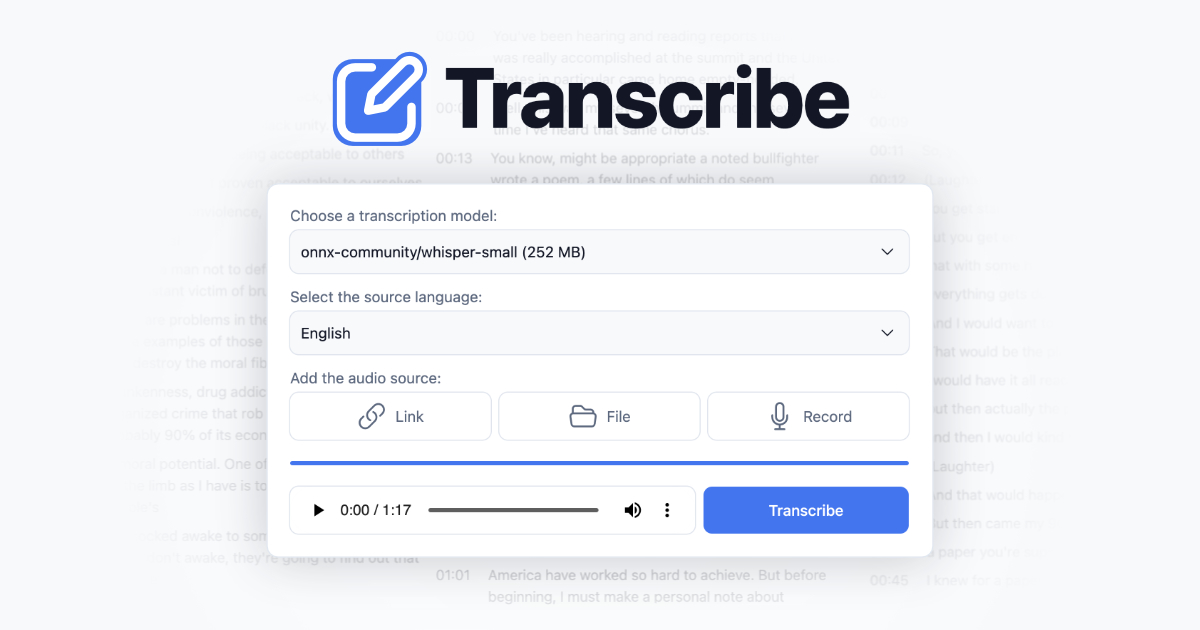
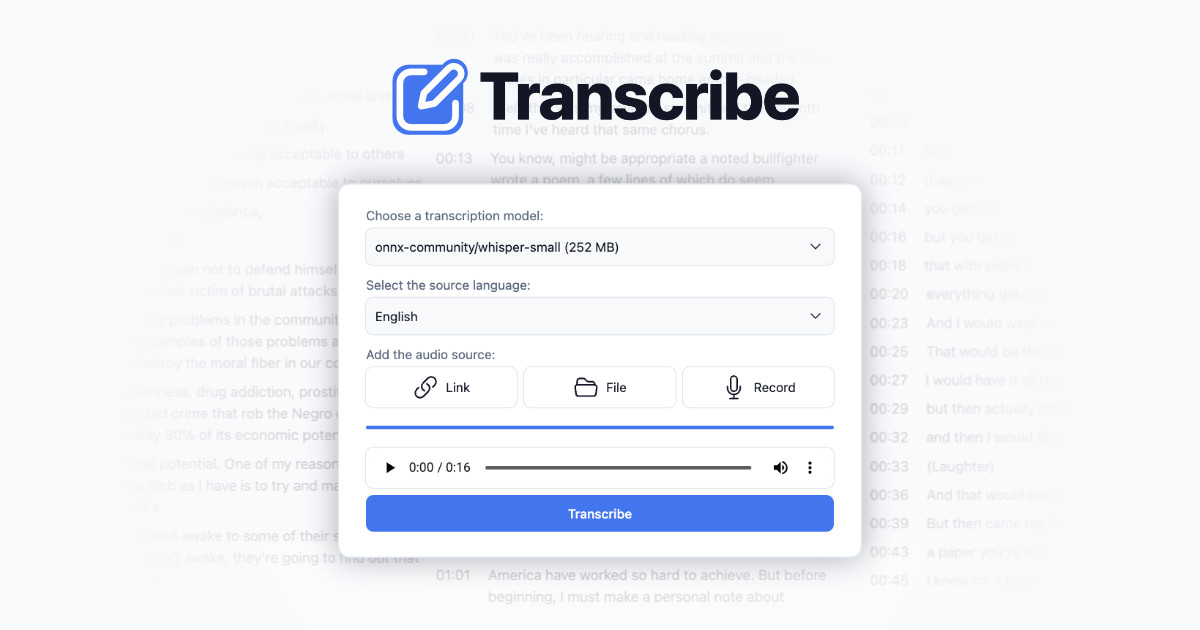
Minor style and color changes

Changed region(s): [[0.2158, 0.3016, 0.7708, 0.8746], [0.2775, 0.0905, 0.7092, 0.2413]]

diff --git a/src/components/TranscribeButton.tsx b/src/components/TranscribeButton.tsx
@@ -14,7 +14,7 @@ export function TranscribeButton(props: Props): JSX.Element {
                 }
             }}
             disabled={isTranscribing}
-            className='text-white text-center bg-blue-500 hover:bg-blue-600 transition-colors duration-300 focus:outline-none focus:ring-2 focus:ring-blue-700 dark:focus:ring-slate-400 font-medium rounded-lg text-sm px-5 py-2.5 text-center whitespace-nowrap sm:basis-48'
+            className='text-white text-center bg-blue-500 hover:bg-blue-600 transition-colors duration-300 focus:outline-none focus:ring-2 focus:ring-blue-700 dark:focus:ring-slate-400 font-medium rounded-lg text-sm p2 text-center whitespace-nowrap h-10 sm:h-auto sm:basis-48'
         >
             {isModelLoading ? (
                 <Spinner text={"Loading model..."} />

diff --git a/index.html b/index.html
@@ -7,8 +7,8 @@
         <link rel="icon" href="/favicon.ico" sizes="48x48" />
         <link rel="icon" type="image/svg+xml" href="/favicon.svg" />
         <link rel="apple-touch-icon" href="/apple-touch-icon.png" />
-        <meta name="msapplication-TileColor" content="#3b82f6" />
-        <meta name="theme-color" content="#3b82f6" />
+        <meta name="msapplication-TileColor" content="#448AFF" />
+        <meta name="theme-color" content="#448AFF" />
         <meta name="title" content="Transcribe – Whisper in Your Browser" />
         <meta
             name="description"
